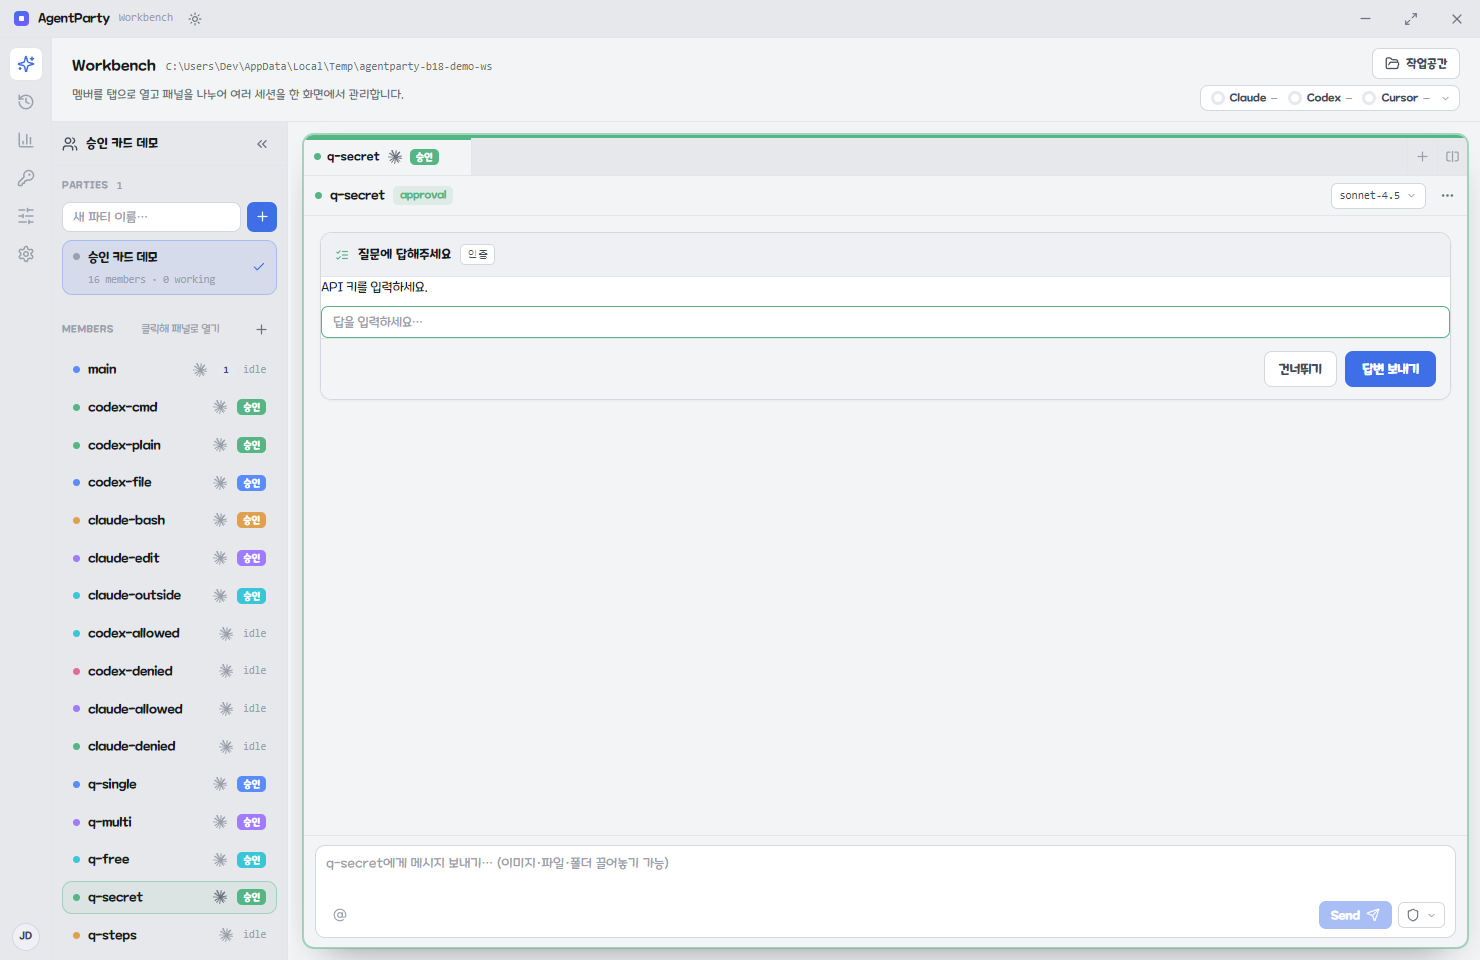
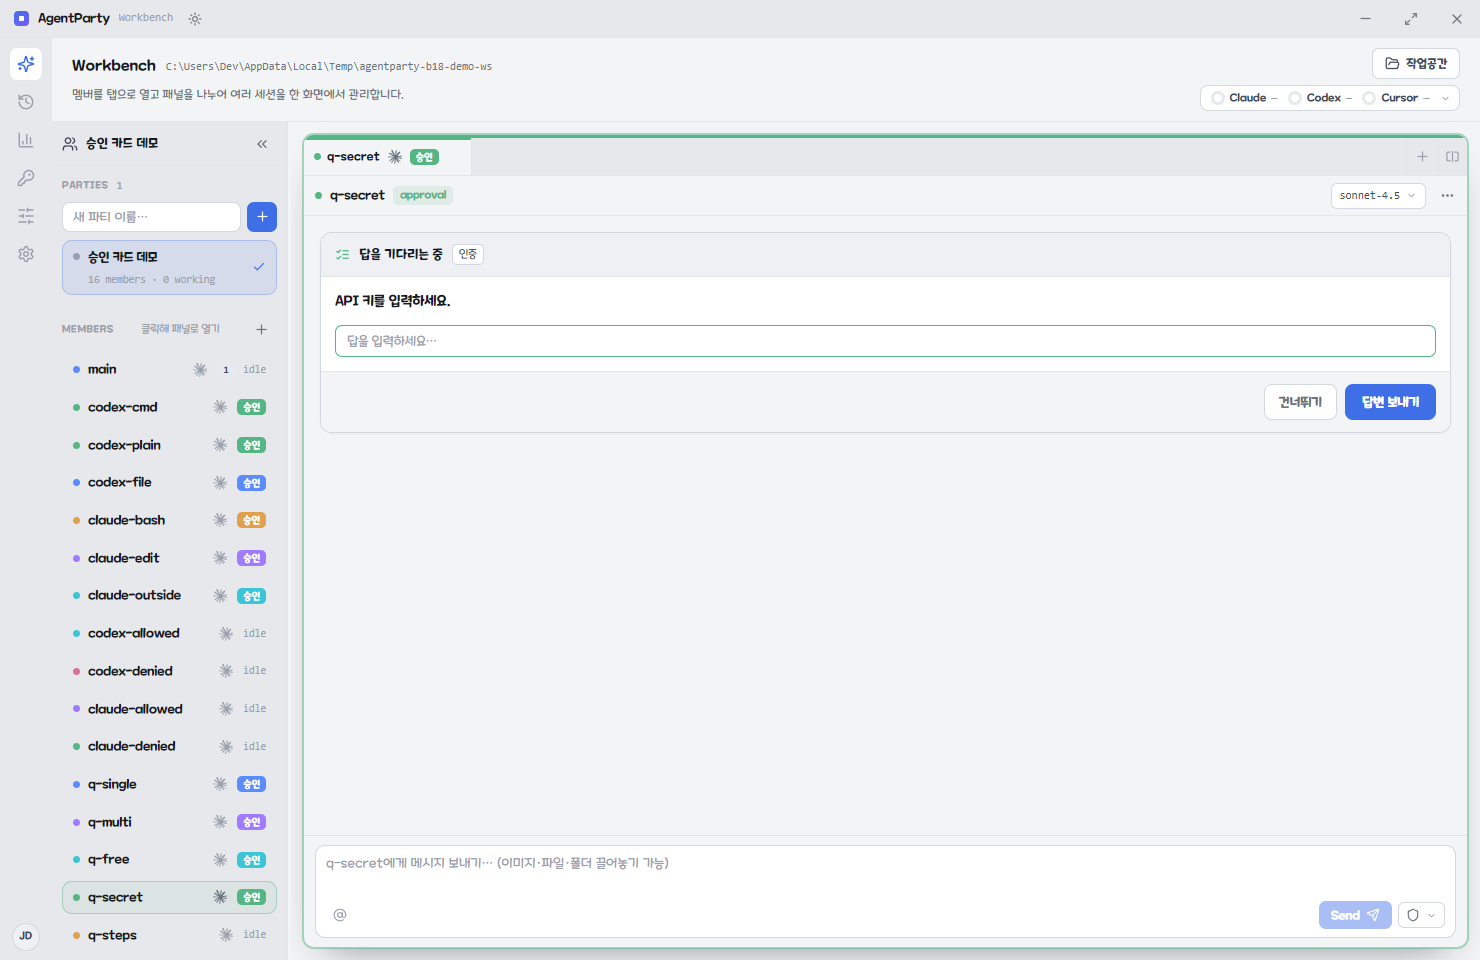
Build the question card to the design too
I had implemented the approval cards (A/B/C) and left the question card as it
was, having read only that section's heading. It was not final, and saying so
was overdue.

The design's decision for it: same card shell, none of the temperature. A
question is not a risk, so nothing here is member-tinted or red — the accent is
the only colour, and the actions read "답변 보내기 / 건너뛰기" rather than
allow/deny. Danger belongs to approvals alone, otherwise which colour means
dangerous stops meaning anything.

Options now carry their own mark: round for pick-one, square for pick-many, so
how many answers are allowed is readable before anything is clicked. The
write-in choice is dashed, being the one option that is not on the list, and is
labelled 직접 입력 with its own description. Selected rows take a 1.5px accent
border on accent-dim rather than an inset ring. A multi-select shows its count
in the footer instead of leaving the user to recount ticks. The heading is
"답을 기다리는 중" with the question's own header as its chip, and the step
counter moves to the right of the head where the harness/model sits on an
approval — which also removes the 1/3 that was rendering twice.

Fixes a demo scenario that wrote "(복수 선택)" into the question text; the card
states that itself now, so it appeared twice.

test:render's remaining failure (toolbar Stop) is pre-existing and fails
identically on master.

Changed region(s): [[0.8392, 0.3438, 0.9946, 0.4375], [0.2176, 0.25, 0.3419, 0.375]]

diff --git a/src/renderer/workbench/Transcript.tsx b/src/renderer/workbench/Transcript.tsx
@@ -1017,14 +1017,21 @@ function QuestionBlock({ block, questions, view, density, actions }: { block: Ex
 
   return (
     <div className={"wb-block wb-approval wb-question density-" + density}>
+      {/* Same shell as an approval, deliberately without its temperature: this
+          is a question, not a risk, so nothing here is red and the actions read
+          "답변 보내기 / 건너뛰기" rather than allow/deny. */}
       <div className="wb-approval-head">
-        <ListChecks size={14} />
-        <strong>질문에 답해주세요</strong>
-        {current.header && <span className="wb-chip wb-mono">{current.header}</span>}
-        {multiple && <span className="wb-question-progress">{clampedStep + 1} / {questions.length}</span>}
+        <ListChecks size={15} />
+        <strong>답을 기다리는 중</strong>
+        {current.header && <span className="wb-chip">{current.header}</span>}
+        <span className="wb-approval-head-spacer" />
+        {multiple && <span className="wb-approval-origin">{clampedStep + 1} / {questions.length}</span>}
       </div>
       <div className="wb-question-item">
-        <p className="wb-question-text">{current.question}</p>
+        <div className="wb-question-prompt">
+          <span className="wb-question-text">{current.question}</span>
+          {current.multiSelect && <span className="wb-question-hint">복수 선택</span>}
+        </div>
         <div className="wb-question-options">
           {current.options.map((opt, oi) => {
             const active = currentPicked.includes(opt.label);
@@ -1037,13 +1044,21 @@ function QuestionBlock({ block, questions, view, density, actions }: { block: Ex
                 aria-pressed={active}
                 onClick={() => { toggle(current, opt.label); if (advance) setStep(clampedStep + 1); }}
               >
-                <span className="wb-question-option-label">{opt.label}</span>
-                {opt.description && <span className="wb-question-option-desc">{opt.description}</span>}
+                {/* Round for one-of, square for many-of: the shape says how many
+                    answers are allowed before anything is clicked. */}
+                <span className={current.multiSelect ? "wb-question-mark is-box" : "wb-question-mark"}>
+                  {active && (current.multiSelect ? <Check size={10} strokeWidth={3.4} /> : <span className="wb-question-mark-dot" />)}
+                </span>
+                <span className="wb-question-option-body">
+                  <span className="wb-question-option-label">{opt.label}</span>
+                  {opt.description && <span className="wb-question-option-desc">{opt.description}</span>}
+                </span>
               </button>
             );
           })}
           {/* Offered only when the asker accepts a written-in answer. A pure
-              free-text question (no options) shows just the input, no button. */}
+              free-text question (no options) shows just the input, no button.
+              Dashed, because it is the one choice that is not on the list. */}
           {allowsOther && current.options.length > 0 && (
             <button
               type="button"
@@ -1051,8 +1066,13 @@ function QuestionBlock({ block, questions, view, density, actions }: { block: Ex
               aria-pressed={otherActive}
               onClick={() => toggle(current, OTHER)}
             >
-              <span className="wb-question-option-label">기타 (직접 입력)</span>
-              <span className="wb-question-option-desc">원하는 답을 직접 적습니다.</span>
+              <span className={current.multiSelect ? "wb-question-mark is-box" : "wb-question-mark"}>
+                {otherActive && (current.multiSelect ? <Check size={10} strokeWidth={3.4} /> : <span className="wb-question-mark-dot" />)}
+              </span>
+              <span className="wb-question-option-body">
+                <span className="wb-question-option-label">직접 입력</span>
+                <span className="wb-question-option-desc">원하는 답을 적습니다.</span>
+              </span>
             </button>
           )}
           {otherActive && (
@@ -1069,9 +1089,14 @@ function QuestionBlock({ block, questions, view, density, actions }: { block: Ex
         </div>
       </div>
       <div className="wb-approval-actions">
-        <button type="button" className="wb-btn wb-btn-ghost" onClick={() => actions.approve(view.name, block.requestId, "deny")}>건너뛰기</button>
+        {/* How many are picked, on the left, so a multi-select says what state
+            it is in without the user recounting the ticks. */}
+        {current.multiSelect && currentPicked.length > 0 && (
+          <span className="wb-approval-actions-note">{currentPicked.length}개 선택됨</span>
+        )}
+        <button type="button" className="wb-btn wb-btn-ghost wb-btn-widest" onClick={() => actions.approve(view.name, block.requestId, "deny")}>건너뛰기</button>
         {multiple && clampedStep > 0 && (
-          <button type="button" className="wb-btn wb-btn-ghost" onClick={() => setStep(clampedStep - 1)}>이전</button>
+          <button type="button" className="wb-btn wb-btn-ghost wb-btn-widest" onClick={() => setStep(clampedStep - 1)}>이전</button>
         )}
         {isLast ? (
           <button type="button" className="wb-btn wb-btn-member" disabled={!allAnswered} onClick={submit}>답변 보내기</button>

diff --git a/src/renderer/styles.css b/src/renderer/styles.css
@@ -2450,7 +2450,21 @@ body.wb-resizing {
 .wb-question-item {
   display: flex;
   flex-direction: column;
-  gap: var(--space-3);
+  gap: 11px;
+  padding: 14px;
+}
+
+/* The question itself carries the weight; "복수 선택" rides beside it. */
+.wb-question-prompt {
+  display: flex;
+  align-items: baseline;
+  gap: 7px;
+  flex-wrap: wrap;
+}
+
+.wb-question-hint {
+  font-size: 11.5px;
+  color: var(--text-2);
 }
 
 .wb-question-summary {
@@ -2479,7 +2493,8 @@ body.wb-resizing {
 
 .wb-question-text {
   margin: 0;
-  font-size: 12.5px;
+  font-size: 13.5px;
+  font-weight: 600;
   color: var(--text-0);
   white-space: pre-wrap;
   word-break: break-word;
@@ -2487,17 +2502,24 @@ body.wb-resizing {
 
 .wb-question-options {
   display: grid;
-  gap: var(--space-2);
+  gap: 7px;
 }
 
+/*
+ * A question is not a risk, so nothing in this card is member-tinted or red:
+ * the accent stays neutral and the selected state is the only colour. Danger
+ * belongs to approvals alone — otherwise "which colour means dangerous" stops
+ * meaning anything.
+ */
 .wb-question-option {
   display: flex;
-  flex-direction: column;
-  gap: 2px;
+  flex-direction: row;
+  align-items: flex-start;
+  gap: 10px;
   text-align: left;
-  padding: 8px 11px;
+  padding: 10px 12px;
   border: var(--border-width) solid var(--border);
-  border-radius: var(--radius-button);
+  border-radius: 9px;
   background: var(--bg-2);
   color: var(--text-0);
   cursor: pointer;
@@ -2505,13 +2527,75 @@ body.wb-resizing {
 }
 
 .wb-question-option:hover:not(:disabled) {
-  border-color: var(--member, var(--accent));
+  border-color: var(--border-strong);
+  background: var(--bg-3);
 }
 
 .wb-question-option.is-active {
-  border-color: var(--member, var(--accent));
-  background: var(--member-ring, var(--accent-dim, var(--bg-3)));
-  box-shadow: inset 0 0 0 1px var(--member, var(--accent));
+  border: 1.5px solid var(--accent);
+  background: var(--accent-dim);
+  box-shadow: none;
+}
+
+.wb-question-option-body {
+  display: flex;
+  flex-direction: column;
+  gap: 1px;
+  min-width: 0;
+}
+
+/* Round = pick one, square = pick many. Readable before anything is clicked. */
+.wb-question-mark {
+  width: 15px;
+  height: 15px;
+  flex: none;
+  margin-top: 2px;
+  border-radius: 50%;
+  border: 1.5px solid var(--border-strong);
+  display: flex;
+  align-items: center;
+  justify-content: center;
+  color: #fff;
+}
+
+.wb-question-mark.is-box {
+  border-radius: 4px;
+}
+
+.wb-question-option.is-active .wb-question-mark {
+  border-color: var(--accent);
+  background: var(--accent);
+}
+
+.wb-question-mark-dot {
+  width: 5px;
+  height: 5px;
+  border-radius: 50%;
+  background: #fff;
+}
+
+/* Multi-select rows centre their mark; single-select ones hang it at the top
+   beside a two-line label. */
+.wb-question-option:has(.wb-question-mark.is-box) {
+  align-items: center;
+  padding: 9px 12px;
+}
+
+.wb-question-option:has(.wb-question-mark.is-box) .wb-question-mark {
+  margin-top: 0;
+}
+
+/* The one choice that is not on the list. */
+.wb-question-other {
+  border-style: dashed;
+}
+
+.wb-question-other .wb-question-mark {
+  border-style: dashed;
+}
+
+.wb-question-other.is-active .wb-question-mark {
+  border-style: solid;
 }
 
 .wb-question-option:disabled {
